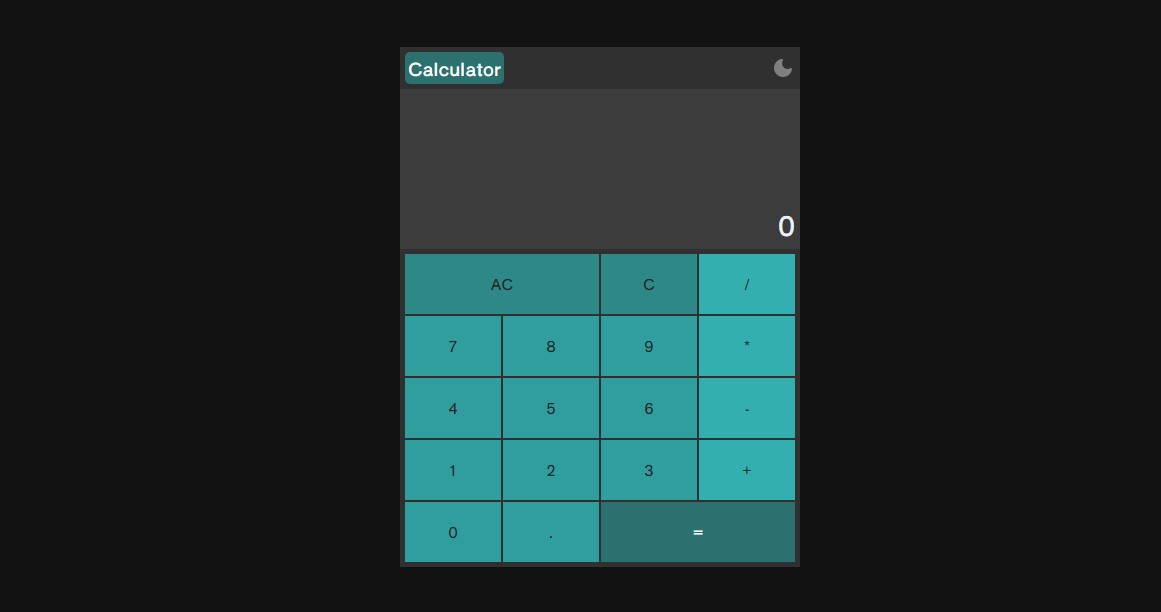
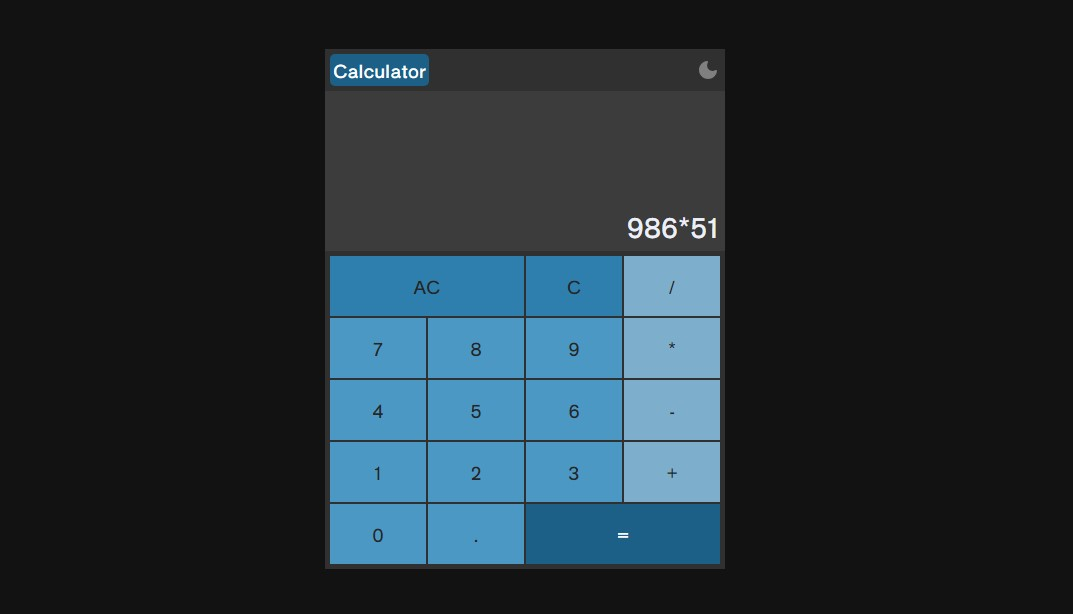
change

Changed region(s): [[0.2768, 0.0621, 0.7074, 0.9314]]

diff --git a/style.css b/style.css
@@ -26,10 +26,10 @@ body {
   font-family: 'Shippori Antique', sans-serif;
   font-size: 15px;
   --padding: 5px;
-  --number-bg: #2f9e9e;
-  --symbol-bg: #33afaf;
-  --common-bg: #2e8888;
-  --mutual-bg:#2c7070;
+  --number-bg: #4c98c4;
+  --symbol-bg: #7daecc;
+  --common-bg: #2e7fad;
+  --mutual-bg:#1c6088;
   
 }
 
@@ -112,7 +112,7 @@ body {
   
   .main-app-button button {
     border: none;
-    font-size: 1em;
+    font-size: 1.2em;
     cursor: pointer;
     font-family: inherit;
     outline: none;
